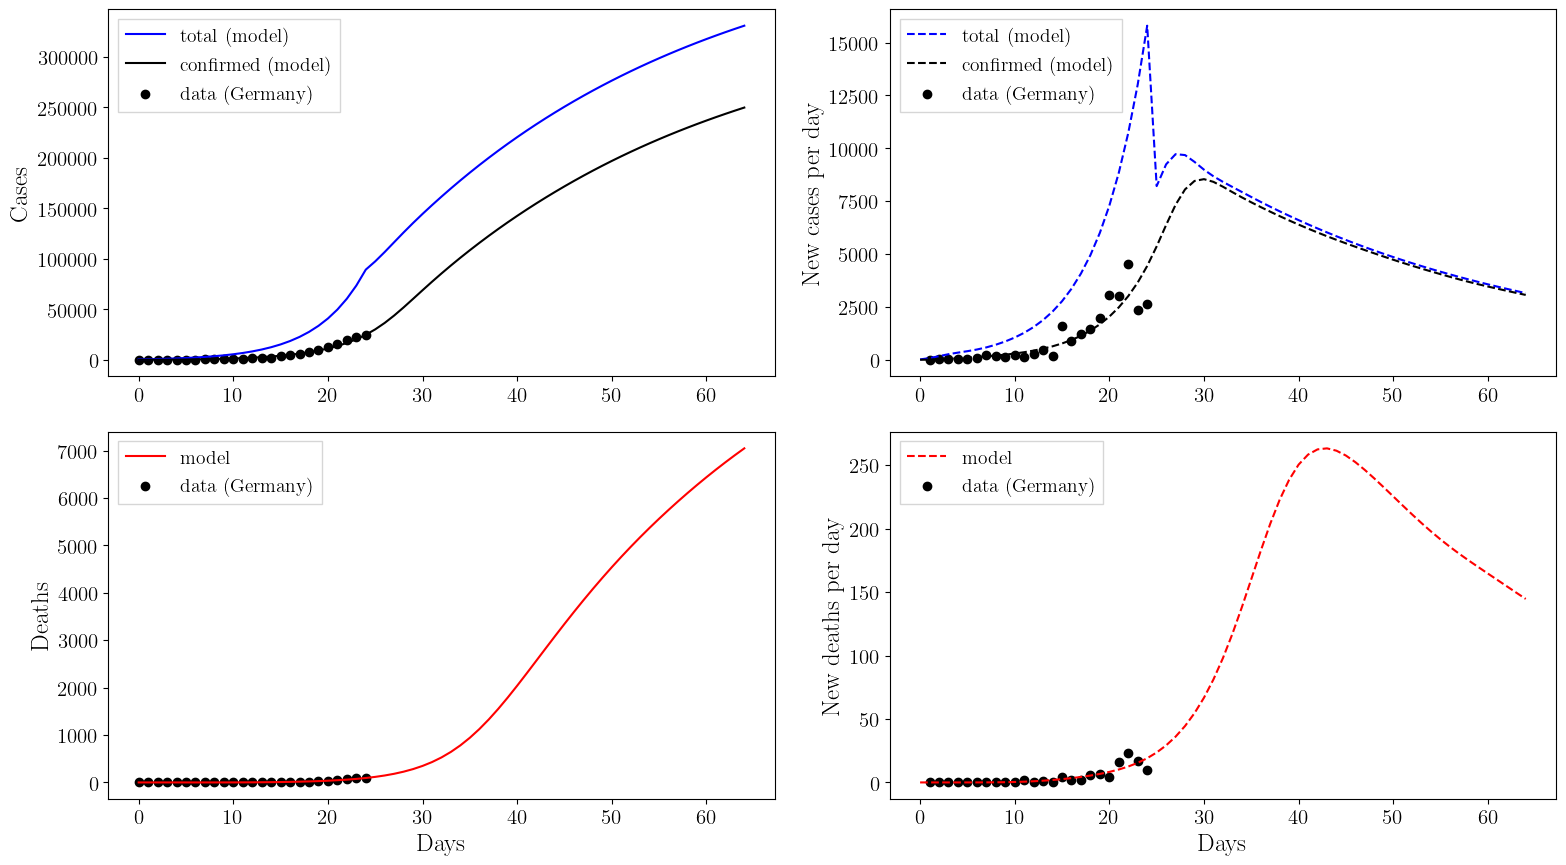
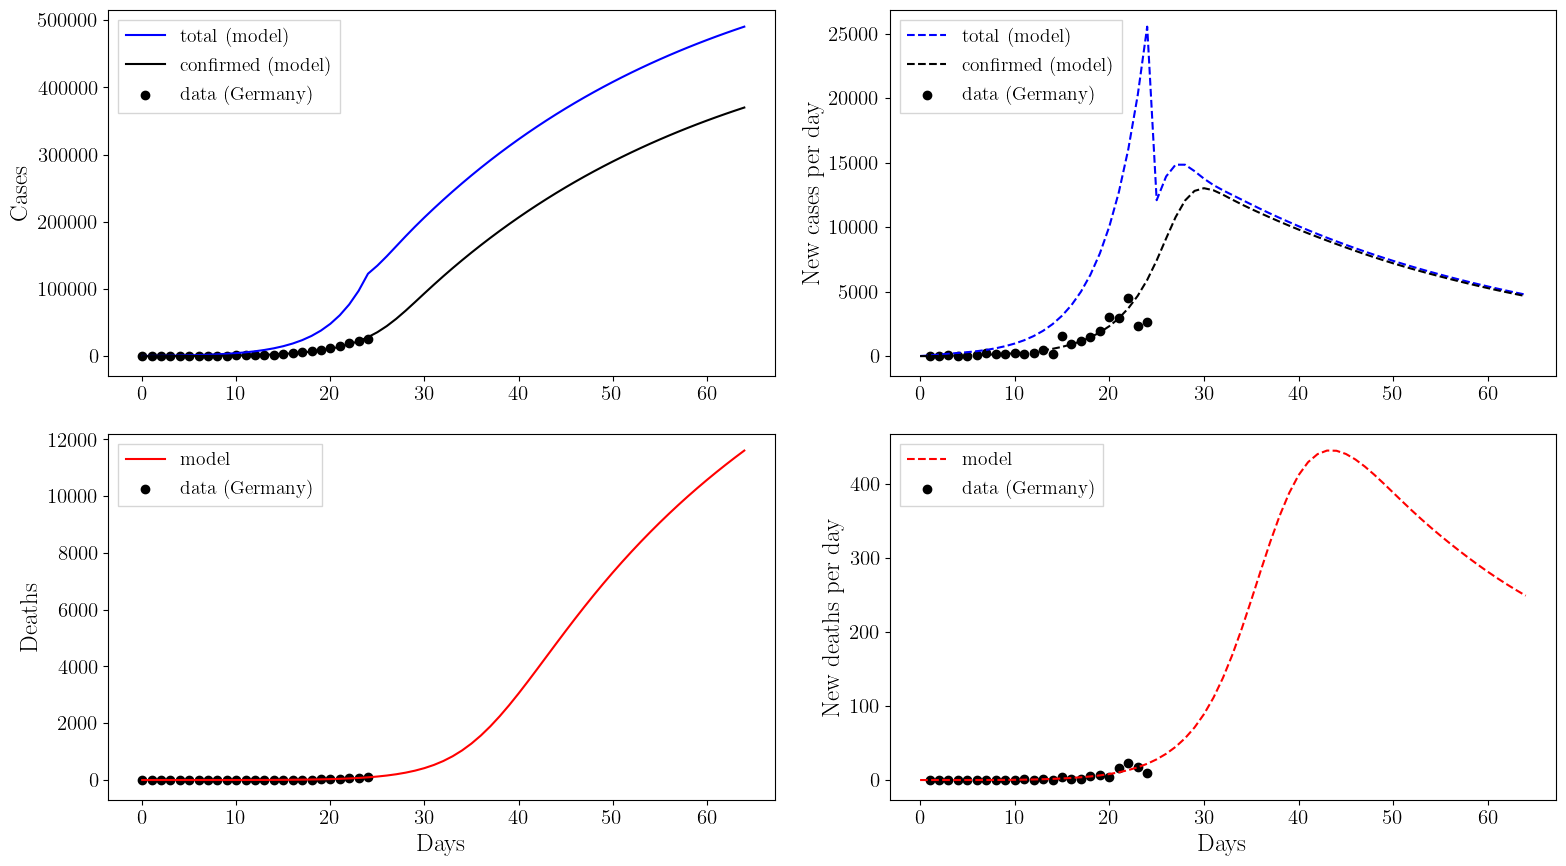
Catch floating precision in likelihood calculation, improve general plotting

diff --git a/fit_data.py b/fit_data.py
@@ -2,7 +2,6 @@ import os
 import numpy as np
 import matplotlib.pyplot as plt
 import matplotlib as mpl
-from scipy.optimize import curve_fit, minimize
 
 from train_model import likelihood
 from models import DayDrivenPandemie
@@ -17,14 +16,11 @@ os.makedirs('img', exist_ok=True)
 
 confirmed_data, dead_data = data.to_numpy()[36:, 0] - 16, data.to_numpy()[36:, 1]
 confirmed_day_data, dead_day_data = np.diff(confirmed_data), np.diff(dead_data)
-mask1, mask2 = confirmed_day_data > 0, dead_day_data > 0
 days = np.arange(len(confirmed_data))
 
 
 def sample_likelihood(pars):
-    infected, infected_confirmed = np.zeros(days.size), np.zeros(days.size)
-    infected_day = np.zeros(days.size)
-    cured, dead = np.zeros(days.size), np.zeros(days.size)
+    infected_confirmed, dead = np.zeros(days.size), np.zeros(days.size)
     world = DayDrivenPandemie(n_days=days.size,
                               n_p=pars[0],
                               attack_rate=0.15,
@@ -36,15 +32,15 @@ def sample_likelihood(pars):
 
     for i in days:
         world.update()
-        infected[i], infected_confirmed[i] = world.infected_total, world.confirmed_total
-        infected_day[i], dead[i] = world.infected_day, world.dead
+        infected_confirmed[i], dead[i] = world.confirmed_total, world.dead
 
-    return -likelihood(np.diff(infected_confirmed)[mask1], confirmed_day_data[mask1], np.diff(dead)[mask2], dead_day_data[mask2])
+    return -likelihood(np.diff(infected_confirmed), confirmed_day_data, np.diff(dead), dead_day_data)
+
 
 lowest_like = np.inf
-n_p_candidates = np.linspace(13, 16, num=10)
-lethality_candidates = np.linspace(1e-3, 0.04, num=10)
-infected_start_candidates = np.linspace(50, 500, num=10)
+n_p_candidates = np.arange(14, 20.5, 0.5)
+lethality_candidates = np.arange(0.005, 0.06, 0.005)
+infected_start_candidates = np.arange(100, 500, 25)
 likelihoods = np.zeros((len(n_p_candidates), len(lethality_candidates), len(infected_start_candidates)))
 for i, n in enumerate(n_p_candidates):
     for j, l in enumerate(lethality_candidates):
@@ -57,23 +53,41 @@ for i, n in enumerate(n_p_candidates):
                 min_idx = (i, j, k)
 
 like_proj = np.min(likelihoods, axis=1)
-fig, ax = plt.subplots(1, 1)
-ax.imshow(np.transpose(like_proj))
-plt.xticks(np.arange(len(n_p_candidates)), np.round(n_p_candidates, 1))
-plt.yticks(np.arange(len(infected_start_candidates)), np.round(infected_start_candidates, 1))
-ax.set_xlabel("np")
-ax.set_ylabel("infected start")
+plt.imshow(np.transpose(like_proj), cmap='inferno_r')
+xticks = np.rint(np.linspace(0, len(n_p_candidates)-1, 6)).astype(int)
+plt.xticks(xticks, np.round(n_p_candidates[xticks], 1))
+yticks = np.rint(np.linspace(0, len(infected_start_candidates)-1, 6)).astype(int)
+plt.yticks(yticks, np.round(infected_start_candidates[yticks], 1))
+plt.xlabel("np")
+plt.ylabel("infected start")
+plt.savefig('img/likelihood_np_is.png', bbox_inches='tight')
+plt.close('all')
 
 like_proj = np.min(likelihoods, axis=2)
-fig, ax = plt.subplots(1, 1)
-ax.imshow(np.transpose(like_proj))
-plt.xticks(np.arange(len(n_p_candidates)), np.round(n_p_candidates, 1))
-plt.yticks(np.arange(len(lethality_candidates)), np.round(lethality_candidates, 4))
-ax.set_xlabel("np")
-ax.set_ylabel("lethality")
-plt.show()
+plt.imshow(np.transpose(like_proj), cmap='inferno_r')
+plt.xticks(xticks, np.round(n_p_candidates[xticks], 1))
+yticks = np.rint(np.linspace(0, len(lethality_candidates)-1, 6)).astype(int)
+plt.yticks(yticks, np.round(lethality_candidates[yticks], 3))
+plt.xlabel("np")
+plt.ylabel("lethality")
+plt.savefig('img/likelihood_np_lethality.png', bbox_inches='tight')
+plt.close('all')
+
+like_proj = np.min(likelihoods, axis=2)
+plt.imshow(np.transpose(like_proj), cmap='inferno_r')
+plt.xticks(xticks, np.round(n_p_candidates[xticks], 1))
+yticks = np.rint(np.linspace(0, len(lethality_candidates)-1, 6)).astype(int)
+plt.yticks(yticks, np.round(lethality_candidates[yticks], 3))
+plt.xlabel("np")
+plt.ylabel("lethality")
+plt.savefig('img/likelihood_is_lethality.png', bbox_inches='tight')
+plt.close('all')
 
 i, j, k = min_idx[0], min_idx[1], min_idx[2]
+print('\nBest parameters:')
+print('np = %.1f' % n_p_candidates[i])
+print('infected start: %.1f' % infected_start_candidates[k])
+print('lethality: %.4f' % lethality_candidates[j])
 pred_len = 40
 days_pred = np.arange(days.size + pred_len)
 infected, infected_confirmed = np.zeros(days_pred.size), np.zeros(days_pred.size)

diff --git a/train_model.py b/train_model.py
@@ -1,9 +1,9 @@
 import numpy as np
-import scipy as sp
 from scipy.stats import poisson
 
 
 def likelihood(cases, cases_expect, deaths, deaths_expect):
-    likelihood_cases = np.log10(poisson.pmf(cases_expect, mu=cases))
-    likelihood_deaths = np.log10(poisson.pmf(deaths_expect, mu=deaths))
+    # get probability mass function and catch floating precision
+    likelihood_cases = np.log10(np.clip(poisson.pmf(cases_expect, mu=cases), a_min=1e-11, a_max=None))
+    likelihood_deaths = np.log10(np.clip(poisson.pmf(deaths_expect, mu=deaths), a_min=1e-11, a_max=None))
     return np.sum(likelihood_cases) + np.sum(likelihood_deaths)
